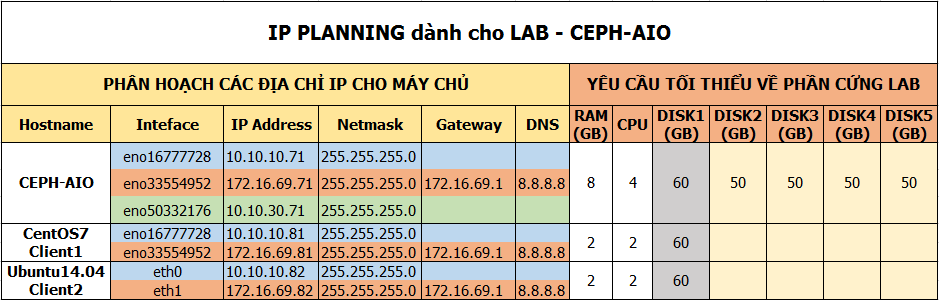
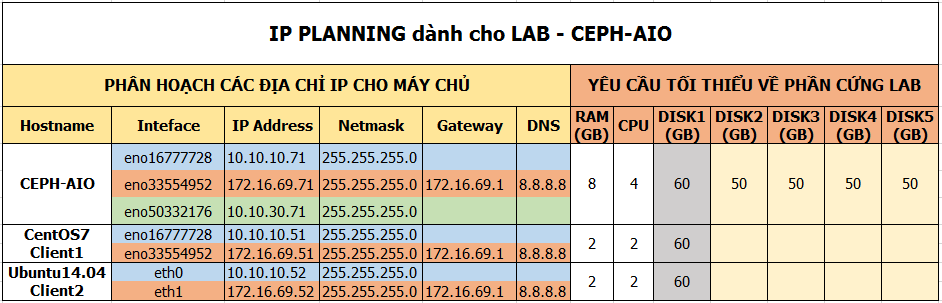
fix IP

Changed region(s): [[0.0, 0.0, 1.0, 1.0], [0.278, 0.06, 0.7412, 0.15]]

diff --git a/docs/ceph-deploy-AIO-CentOS7.2.md b/docs/ceph-deploy-AIO-CentOS7.2.md
@@ -329,13 +329,13 @@ su -
 - Thiết lập IP cho máy CEPH AIO
   ```sh
   echo "Setup IP  eno16777728"
-  nmcli c modify eno16777728 ipv4.addresses 10.10.10.81/24
+  nmcli c modify eno16777728 ipv4.addresses 10.10.10.51/24
   nmcli c modify eno16777728 ipv4.method manual
   nmcli con mod eno16777728 connection.autoconnect yes
 
 
   echo "Setup IP  eno33554952"
-  nmcli c modify eno33554952 ipv4.addresses 172.16.69.81/24
+  nmcli c modify eno33554952 ipv4.addresses 172.16.69.51/24
   nmcli c modify eno33554952 ipv4.gateway 172.16.69.1
   nmcli c modify eno33554952 ipv4.dns 8.8.8.8
   nmcli c modify eno33554952 ipv4.method manual
@@ -442,12 +442,12 @@ su -
   # The primary network interface
   auto eth0
   iface eth0 inet static
-  address 10.10.10.82
+  address 10.10.10.52
   netmask 255.255.255.0
 
   auto eth1
   iface eth1 inet static
-  address 172.16.69.82
+  address 172.16.69.52
   gateway 172.16.69.1
   netmask 255.255.255.0
   dns-nameservers 8.8.8.8
